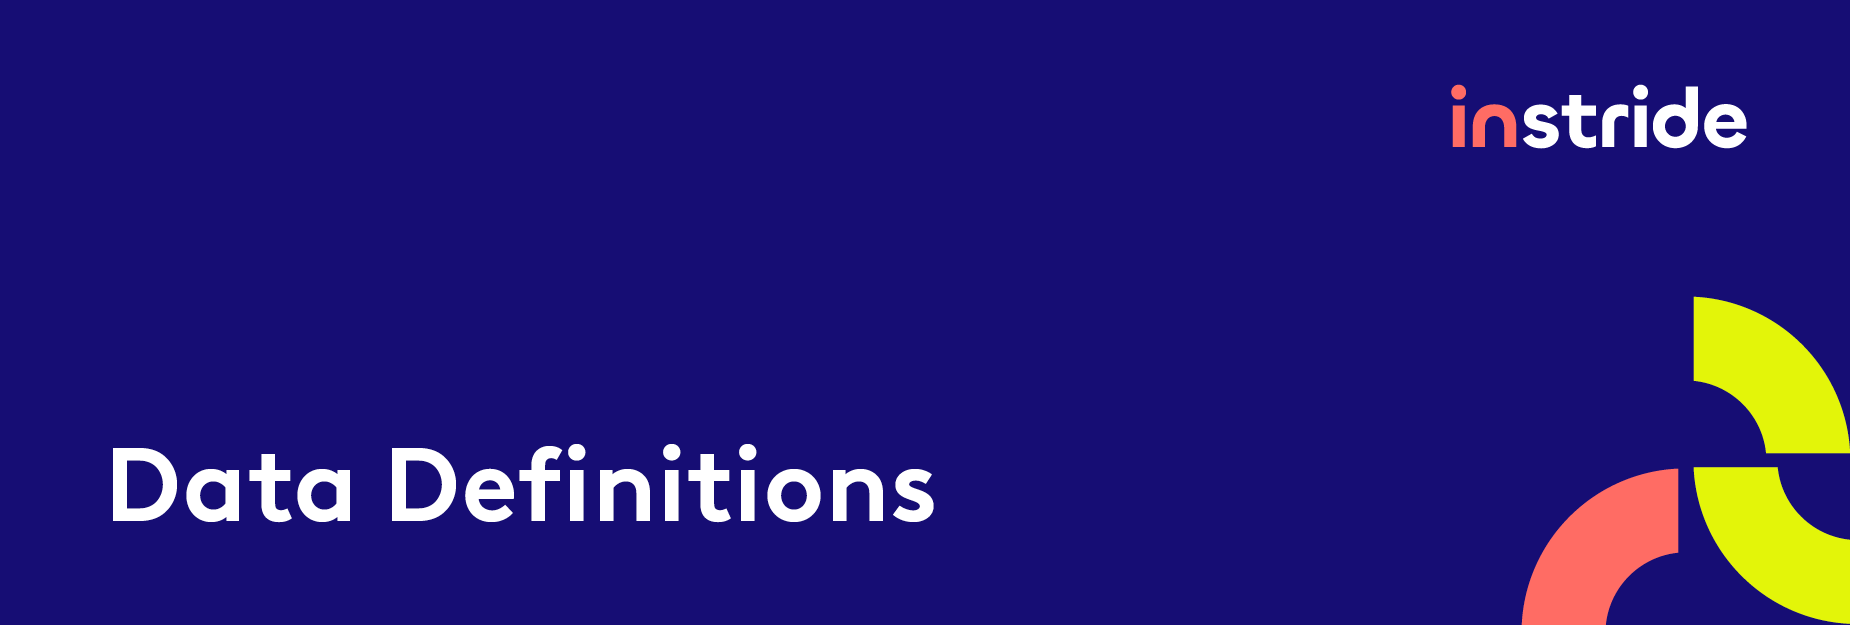
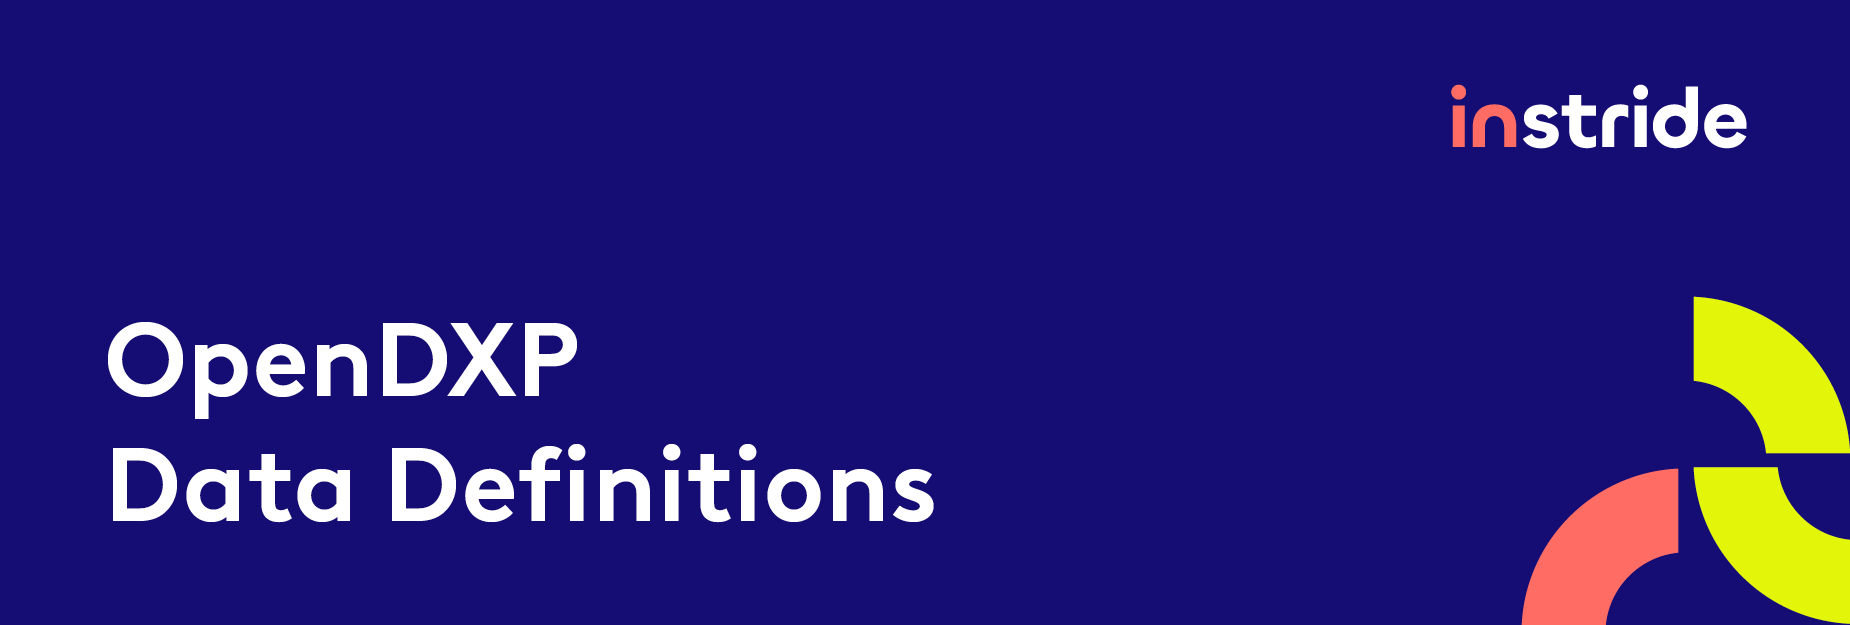
chore: update README

Changed region(s): [[0.0616, 0.5168, 0.3081, 0.6688]]

diff --git a/README.md b/README.md
@@ -4,12 +4,12 @@
 [![Latest Stable Version](https://img.shields.io/packagist/v/instride/opendxp-data-definitions.svg?style=flat-square)](https://packagist.org/packages/instride/opendxp-data-definitions)
 
 Data Definitions allows you to define your DataObject Imports and Exports using a nice GUI and re-run the definitions
-as often you like. Everything within Data Definitions is extendable.
+as often as you like. Everything within Data Definitions is extendable.
 
 ![Interface](docs/images/mapping.png)
 
 ## Requirements
-* OpenDxp V1
+* OpenDXP V1
 
 
 ## Getting started
@@ -31,8 +31,8 @@ return [
 bin/console opendxp:bundle:install OpenDxpDataDefinitionsBundle
 ```
 
- * Reload OpenDxp
- * Open Settings -> Import Definitions or Export Definitions
+ * Reload OpenDXP Admin UI
+ * Open Settings → Import Definitions or Export Definitions
 
 ## Documentation
  - [Import Definitions](./docs/imports.md)
@@ -41,6 +41,6 @@ bin/console opendxp:bundle:install OpenDxpDataDefinitionsBundle
 ## License
 **instride AG**, Sandgruebestrasse 4, 6210 Sursee, Switzerland  
 [instride.ch](https://instride.ch), [email redacted]  
-Copyright © 2024 instride AG. All rights reserved.
+Copyright © 2026 instride AG. All rights reserved.
 
 For licensing details please visit [LICENSE.md](LICENSE.md)